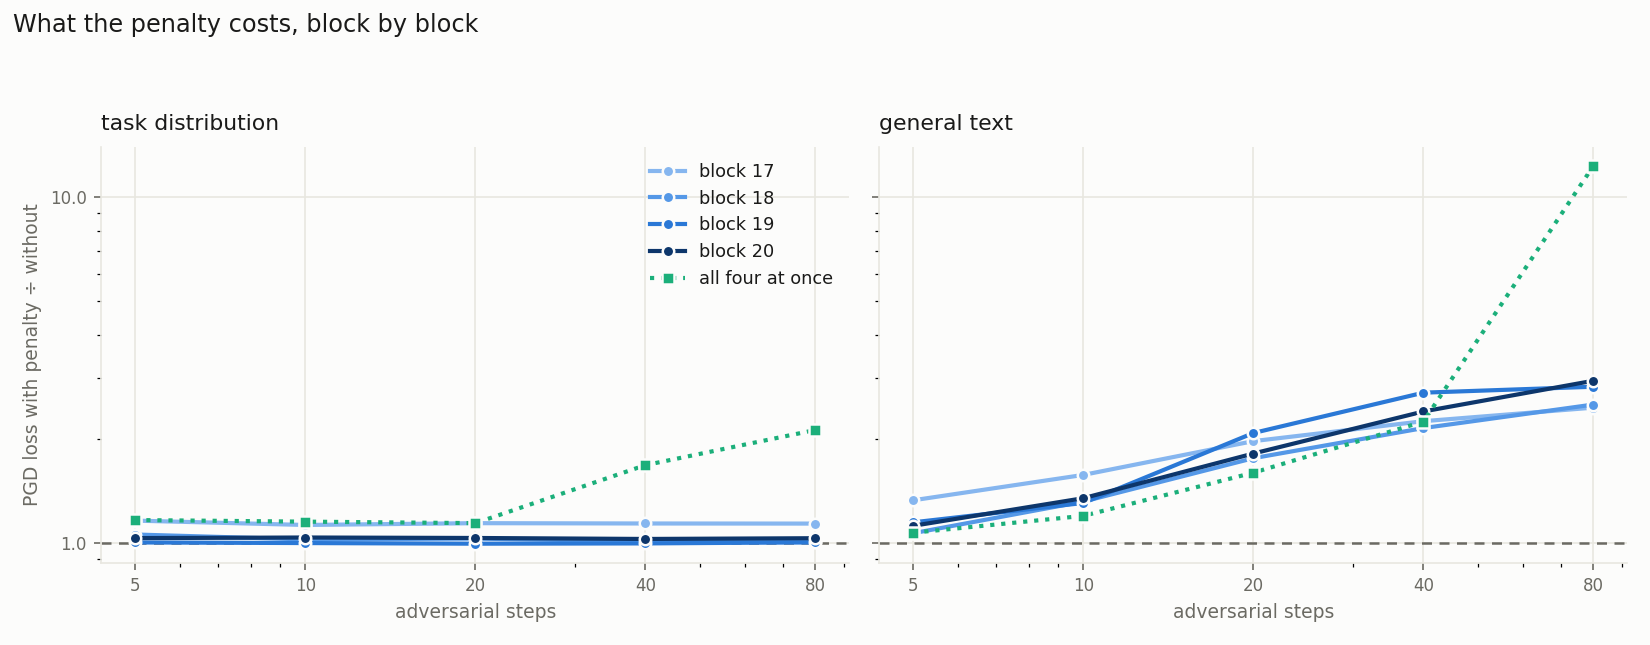
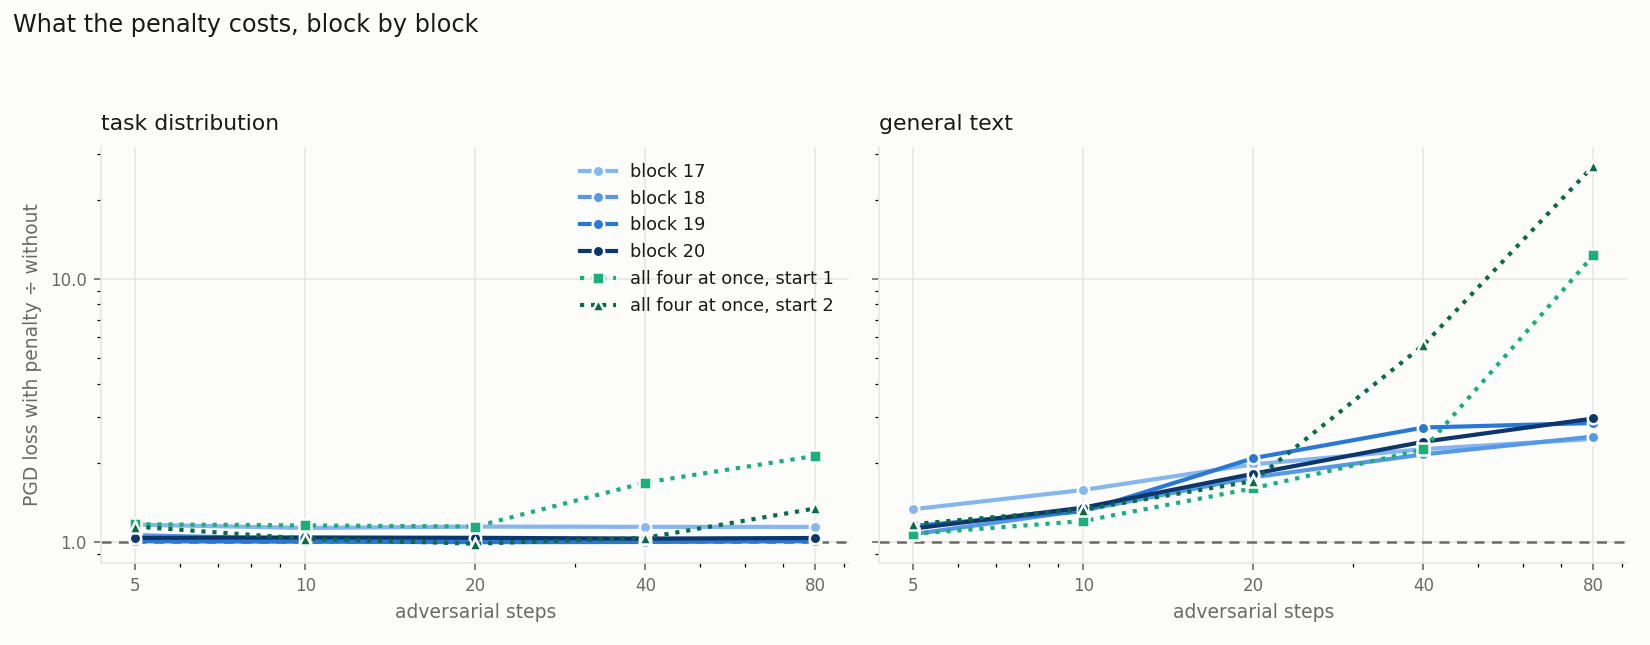
docs: second adversary start for the joint 4-block attack
8.29's superadditivity figure rested on one adversary start. The replicate at
seed 5678 confirms the direction and bounds the magnitude:

- general text, cost at 80 steps: 12.31x (start 1) and 26.99x (start 2), both far
  above any single block (2.47-3.02x); divergence sets in a budget earlier at
  start 2 (k40 = 5.61x vs 2.25x)
- the penalty-off control is stable to 0.7% across the same two starts, so the
  instability belongs to the penalised decomposition, not to the probe
- task stream is start-dependent (2.13x vs 1.34x at k80) and invisible to a
  20-step probe at either start - do not quote a coordination cost from one start
- figure 03_per_block_cost carries both joint curves; share doc reworded from
  a single 12.3x to the pair, with the instability stated
- report 8.30, incl. a note on the parallel-session scratch-file collision

Claude-Session: https://claude.ai/code/session_011EqWYtK2A5PugNTcQx2iAE

diff --git a/notes/report.md b/notes/report.md
@@ -1496,3 +1496,40 @@ every block set now gets its own OUTDIR and the figure script globs `pgd_block*`
 Concurrency note: two other sessions were submitting into the same scratch tree during this
 work. Check `squeue` and the JSON `blocks`/`init_seed` metadata before assuming a file is
 yours.
+
+### 8.30 Second adversary start for the joint 4-block attack (2026-09-05)
+
+8.29's superadditivity number (12.31x) rested on one adversary start. Job 11079 repeats the
+all-blocks-at-once harvest on the same pair at `--init-seed 5678`. Raw 4-batch means:
+
+```
+                     k5      k10     k20     k40     k80
+off  start1       0.0230  0.0357  0.0423  0.0447  0.0453
+off  start2       0.0218  0.0338  0.0414  0.0447  0.0456
+on   start1       0.0247  0.0429  0.0676  0.1004  0.5584
+on   start2       0.0255  0.0450  0.0706  0.2508  1.2306
+```
+
+Cost ratios, general text: start1 1.07 / 1.20 / 1.60 / 2.25 / **12.31**; start2
+1.17 / 1.33 / 1.71 / 5.61 / **26.99**. The direction replicates and is far above any single
+block (2.47-3.02), but the magnitude moves by 2.2x between starts, and the divergence sets
+in one budget earlier at start 2 (k40 already 5.61 vs 2.25). The CONTROL is stable to 0.7%
+at k80 across the same two starts (0.0453 vs 0.0456), so the instability is a property of
+the penalised decomposition, not of the probe.
+
+Task stream is weaker and start-dependent: start1 1.17/1.16/1.14/1.68/2.13 vs start2
+1.14/1.03/0.98/1.03/1.34. Both exceed the flat per-block curves (1.00-1.16) at k80, but a
+20-step probe sees nothing at either start, and start 2 sees essentially nothing until k80.
+Do NOT quote an on-distribution coordination cost from one start.
+
+Figure `plots/blocks_4l/03_per_block_cost.png` now carries both joint curves; per-block
+curves remain single-start (they are stable enough that a second start was not the
+bottleneck). Share doc section 8 reworded from "12.3x" to "12.3x and 27.0x", with the
+instability stated.
+
+**Process note.** This work collided with a parallel session on the same task: both wrote
+`~/pd_scratch/dual_obj_jax/block_figs.py` and both harvested block 20 (jobs 11072/11073 vs
+11077/11078). The duplicate block-20 harvest turned out to be useful — it is the only
+independent repeat of the probe, and 8.29 uses it as the noise floor — but the scratch-file
+overwrite was silent and cost a figure set. Scratch analysis scripts are not a safe shared
+namespace between sessions.

diff --git a/notes/nonlinearity_penalty.md b/notes/nonlinearity_penalty.md
@@ -174,10 +174,17 @@ As a cost ratio the four curves nearly overlap — 2.5×, 2.5×, 2.8×, 3.0× at
 on the task distribution all four sit flat between 1.0× and 1.16×. The effect is not
 specific to layer 18, or to any layer.
 
-The dotted line is the same attacker let loose on all four blocks at once. It reaches
-**12.3×**, far above any single block. Attacking the blocks together is worth much more
-than attacking them one at a time, so whatever the penalty leaves exposed is spread across
-the network rather than concentrated in one place.
+The dotted lines are the same attacker let loose on all four blocks at once, from two
+different start points. They reach **12.3× and 27.0×** at 80 steps — far above any single
+block. Attacking the blocks together is worth much more than attacking them one at a time,
+so whatever the penalty leaves exposed is spread across the network rather than
+concentrated in one place.
+
+Read that as "several times any single block", not as a number. It is the one measurement
+here whose magnitude moves by 2× between attacker start points, while every per-block curve
+is stable across the same change. The penalty-off run does not do this — its joint curve is
+0.0453 and 0.0456 at the two starts — so the instability belongs to the penalised
+decomposition, which is itself part of the finding.
 
 ---
 
